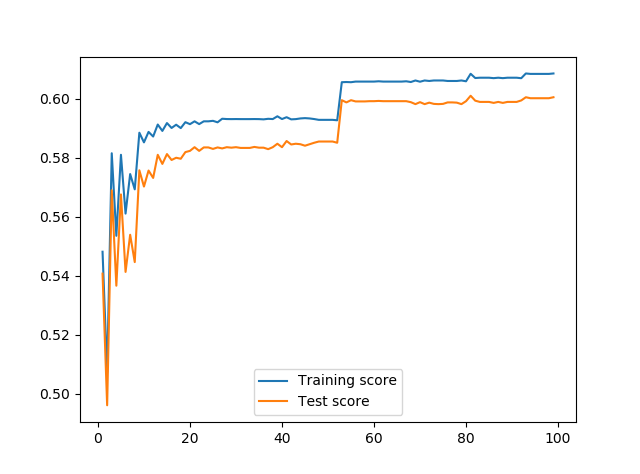
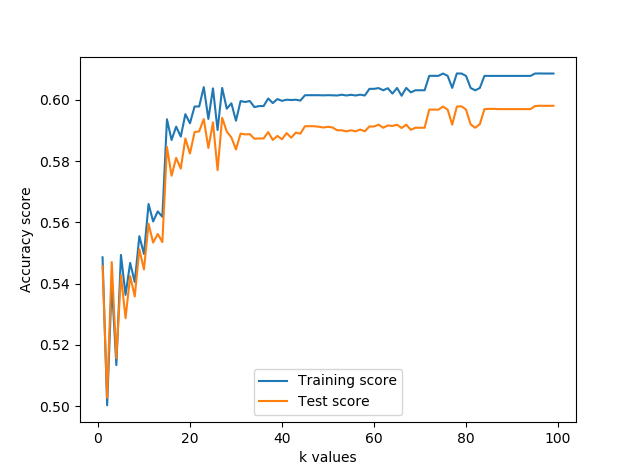
updated accuracy score

diff --git a/capstone_starter/classify_sex_naive_bayes.py b/capstone_starter/classify_sex_naive_bayes.py
@@ -9,7 +9,7 @@ import pandas as pd
 import numpy as np
 from sklearn.feature_extraction.text import CountVectorizer
 from sklearn.naive_bayes import MultinomialNB
-from sklearn.metrics import confusion_matrix 
+from sklearn.metrics import confusion_matrix, accuracy_score, recall_score, precision_score
 from sklearn.model_selection import train_test_split
 from time import time
 
@@ -61,11 +61,14 @@ def test_performance(data_frame):
     start = time()
     classifier = MultinomialNB()
     classifier.fit(X_train, y_train)
-    result1 = classifier.predict(X_test)
+    y_predicted = classifier.predict(X_test)
     print(classifier.score(X_test, y_test))
-    result = confusion_matrix(y_test,result1)
+    result = confusion_matrix(y_test,y_predicted)
+    accuracy_score_result = accuracy_score(y_test,y_predicted)
+    precision_result = precision_score(y_test,y_predicted)
+    recall_result = recall_score(y_test,y_predicted)
     print("execution time (sec) for test_performance:", time() - start)
-    return result
+    return result,accuracy_score_result,precision_result,recall_result
     
 
 def is_male(data_frame, review):
@@ -80,9 +83,9 @@ def is_male(data_frame, review):
 
 #Tests
 df = pd.read_csv("profiles.csv")
-print(is_male(df, "i want gud male"))
-print(is_male(df, "i'm from rich city"))
-print(is_male(df, "female friends only"))
+# print(is_male(df, "i want gud male"))
+# print(is_male(df, "i'm from rich city"))
+# print(is_male(df, "female friends only"))
 print(is_male(df, "i believe that life is a bold, dashing adventure"))
 print(test_performance(df))
 

diff --git a/capstone_starter/classify_sex_svc.py b/capstone_starter/classify_sex_svc.py
@@ -9,7 +9,7 @@ import pandas as pd
 import numpy as np
 from sklearn.feature_extraction.text import CountVectorizer
 from sklearn.svm import SVC, LinearSVC
-from sklearn.metrics import confusion_matrix 
+from sklearn.metrics import confusion_matrix, accuracy_score, recall_score, precision_score
 from sklearn.model_selection import train_test_split
 from time import time
 
@@ -73,16 +73,18 @@ def test_performance(data_frame):
     classifier = SVC(kernel='linear', C = 0.01)
     #classifier = LinearSVC()
     classifier.fit(X_train, y_train)
-    result1 = classifier.predict(X_test)
-    print(classifier.score(X_test, y_test))
+    y_predicted = classifier.predict(X_test)
+    accuracy_score_result = accuracy_score(y_test,y_predicted)
+    precision_result = precision_score(y_test,y_predicted)
+    recall_result = recall_score(y_test,y_predicted)
     print("execution time (sec) for test_performance:", time() - start)
-    return confusion_matrix(y_test,result1)
+    return confusion_matrix(y_test,y_predicted),accuracy_score_result,precision_result,recall_result
 
 #Tests
 df = pd.read_csv("profiles.csv")
-print(is_male(df, "i want gud male"))
-print(is_male(df, "i'm from rich city"))
-print(is_male(df, "female friends only"))
+# print(is_male(df, "i want gud male"))
+# print(is_male(df, "i'm from rich city"))
+# print(is_male(df, "female friends only"))
 print(is_male(df, "i believe that life is a bold, dashing adventure"))
 print(test_performance(df))
 

diff --git a/capstone_starter/classify_sex_knr.py b/capstone_starter/classify_sex_knr.py
@@ -49,7 +49,9 @@ def test_performance(data_frame, iteration_count):
         k_steps.append(k)
     print("execution time (sec) for test_performance:", time() - start)
     plt.plot(k_steps, train_score, label="Training score")
-    plt.plot(k_steps, test_score, label="Test score")    
+    plt.plot(k_steps, test_score, label="Test score")
+    plt.xlabel('k values')
+    plt.ylabel('Accuracy score')    
     plt.legend(loc=8)
     plt.show()
 

diff --git a/capstone_starter/predict_income_knr.py b/capstone_starter/predict_income_knr.py
@@ -48,7 +48,9 @@ def test_performance(data_frame, iteration_count):
         k_steps.append(k)
     print("execution time (sec) for test_performance:", time() - start)
     plt.plot(k_steps, train_score, label="Training score")
-    plt.plot(k_steps, test_score, label="Test score")    
+    plt.plot(k_steps, test_score, label="Test score")
+    plt.xlabel('k values')
+    plt.ylabel('Accuracy score')
     plt.legend(loc=8)
     plt.show()
     

diff --git a/capstone_starter/predict_age_knr.py b/capstone_starter/predict_age_knr.py
@@ -47,7 +47,9 @@ def test_performance(data_frame, iteration_count):
         k_steps.append(k)
     print("execution time (sec) for test_performance:", time() - start)
     plt.plot(k_steps, train_score, label="Training score")
-    plt.plot(k_steps, test_score, label="Test score")    
+    plt.plot(k_steps, test_score, label="Test score")   
+    plt.xlabel('k values')
+    plt.ylabel('Accuracy score')
     plt.legend(loc=8)
     plt.show()
 

diff --git a/capstone_starter/predict_age_mlr.py b/capstone_starter/predict_age_mlr.py
@@ -56,7 +56,7 @@ def predict_age(data_frame, x_input):
 #Tests
 df = pd.read_csv("profiles.csv")
 print("What age is a person earning 50000 $ per year and job as 'science / tech / engineering':", predict_age(df, [[50000, 6]]))
-test_performance(df)
+print(test_performance(df))
 
 #Visualize data
 # x_train, x_test, y_train, y_test = get_test_data_set(df)
